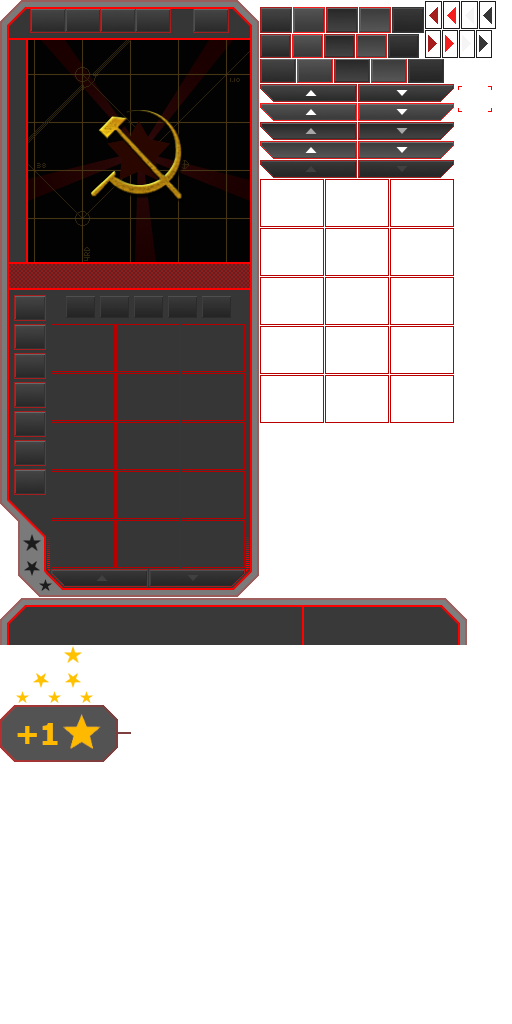
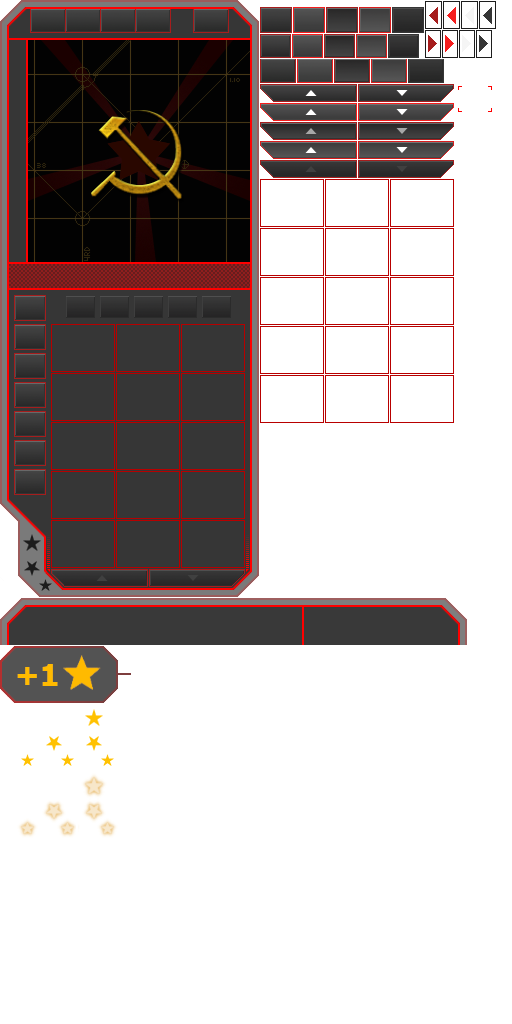
Rank up star glow.

Changed region(s): [[0.0, 0.625, 0.25, 0.8125], [0.0312, 0.7812, 0.0625, 0.8125]]

diff --git a/OpenRA.Mods.CA/Widgets/Logic/Ingame/PlayerExperienceLevelIndicatorLogic.cs b/OpenRA.Mods.CA/Widgets/Logic/Ingame/PlayerExperienceLevelIndicatorLogic.cs
@@ -36,20 +36,29 @@ namespace OpenRA.Mods.CA.Widgets.Logic
 			var container = widget.Get<ContainerWidget>("PLAYER_EXPERIENCE");
 			var rankImage = container.Get<ImageWidget>("PLAYER_EXPERIENCE_LEVEL");
 			var rankUpImage = container.Get<ImageWithAlphaWidget>("PLAYER_EXPERIENCE_LEVEL_UP");
+			var rankImageGlow = container.Get<ImageWithAlphaWidget>("PLAYER_EXPERIENCE_LEVEL_GLOW");
 
 			if (playerExperienceLevels == null)
 			{
 				rankImage.GetImageName = () => DisabledImage;
 				rankImage.IsVisible = () => true;
+
+				rankImageGlow.GetImageName = () => DisabledImage;
+				rankImageGlow.IsVisible = () => false;
+
 				rankImage.GetTooltipText = () => TranslationProvider.GetString(PlayerLevel, Translation.Arguments("level", "N/A"));
 				rankUpImage.IsVisible = () => false;
 				return;
 			}
 
-			rankImage.GetImageName = () => "level" + playerExperienceLevels.CurrentLevel;
+			rankImage.GetImageName = () =>  $"level{playerExperienceLevels.CurrentLevel}";
 			rankImage.IsVisible = () => playerExperienceLevels.Enabled;
 			rankUpImage.IsVisible = () => playerExperienceLevels.LevelUpImageAlpha > 0;
 			rankUpImage.GetAlpha = () => playerExperienceLevels.LevelUpImageAlpha;
+
+			rankImageGlow.GetImageName = () => $"level{playerExperienceLevels.CurrentLevel}-glow";
+			rankImageGlow.IsVisible = () => playerExperienceLevels.LevelUpImageAlpha > 0;
+			rankImageGlow.GetAlpha = () => playerExperienceLevels.LevelUpImageAlpha;
 
 			var tooltipTextCached = new CachedTransform<int?, string>((CurrentXp) =>
 			{
